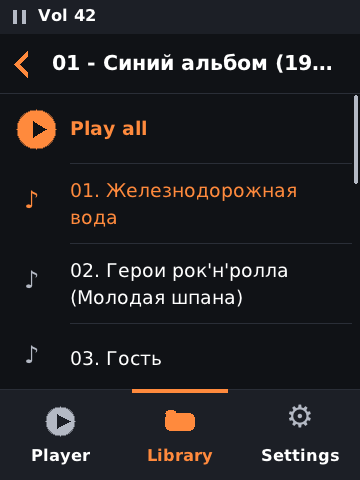
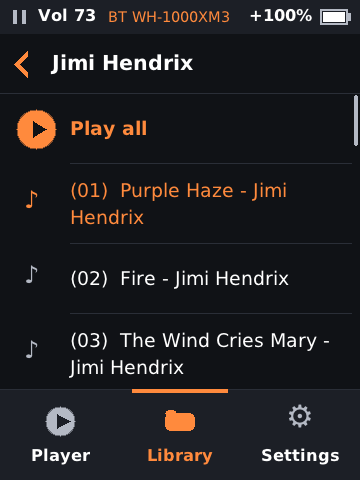
Retake README screenshots on the device

diff --git a/README.md b/README.md
@@ -9,8 +9,8 @@ a whole folder. Large, readable type; no album art, e-book reader or step counte
 <table>
   <tr>
     <td><img src="docs/img/player.png" width="240" alt="Player playing over Bluetooth"></td>
-    <td><img src="docs/img/library_albums.png" width="240" alt="Library: albums"></td>
-    <td><img src="docs/img/library_tracks.png" width="240" alt="Library: tracks of an album"></td>
+    <td><img src="docs/img/library_albums.png" width="240" alt="Library: folders"></td>
+    <td><img src="docs/img/library_tracks.png" width="240" alt="Library: tracks of a folder"></td>
   </tr>
   <tr>
     <td><img src="docs/img/settings.png" width="240" alt="Settings"></td>
